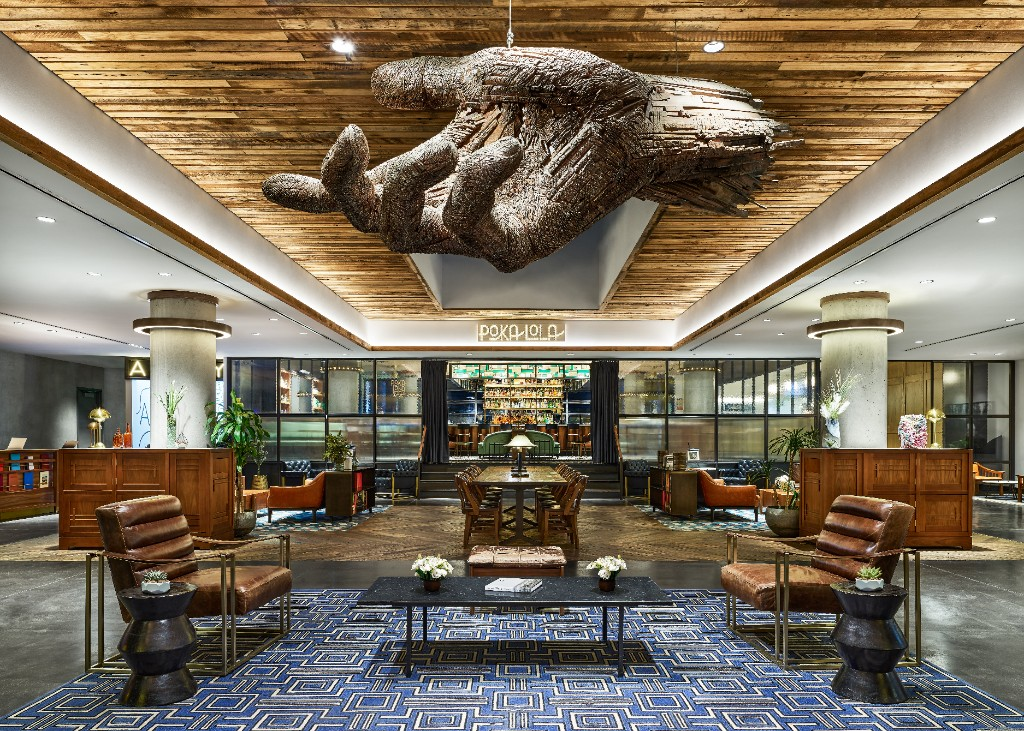
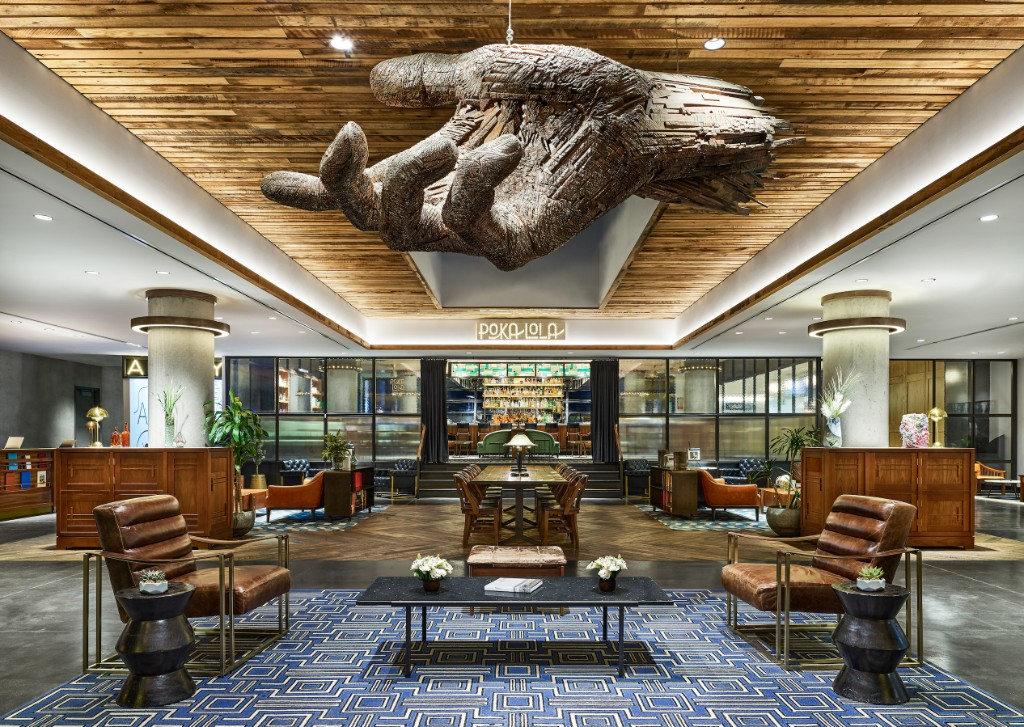
adjusting the resolution of the hero image

diff --git a/src/pages/CircularFoodSystems/CircularFoodSystems.jsx b/src/pages/CircularFoodSystems/CircularFoodSystems.jsx
@@ -577,11 +577,9 @@ const CircularFoodSystems = () => {
 
 				<Box
 					sx={{
-						width: { xs: '100%', md: `min(${CONTENT_MAX}px, calc(100% + 64px))` },
-						maxWidth: CONTENT_MAX,
+						width: '100%',
+						maxWidth: 1024,
 						mx: 'auto',
-						ml: { xs: 'auto', md: -4 },
-						mr: { xs: 'auto', md: -4 },
 						mt: { xs: 4, md: 5.5 },
 						mb: 0,
 						lineHeight: 0,
@@ -593,7 +591,7 @@ const CircularFoodSystems = () => {
 						sx={{
 							width: '100%',
 							height: 'auto',
-							aspectRatio: '1024 / 731',
+							aspectRatio: '1024 / 727',
 							borderRadius: RADIUS_CARD,
 							display: 'block',
 							boxShadow: SHADOW_IMAGE,
